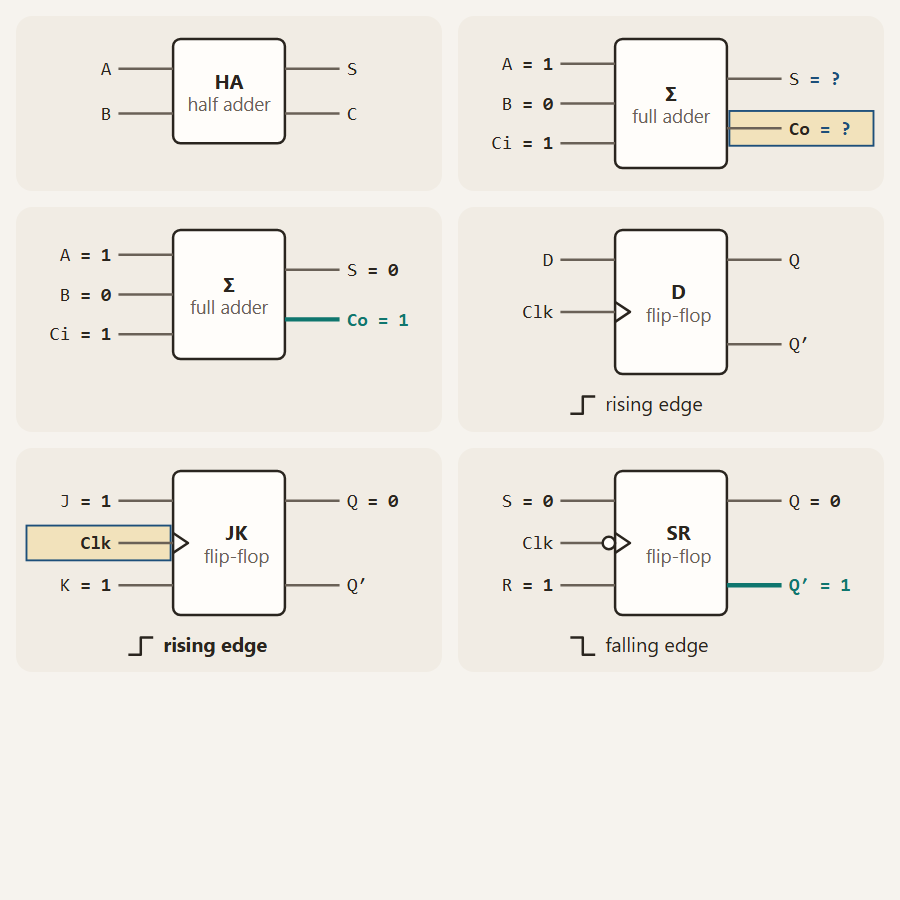
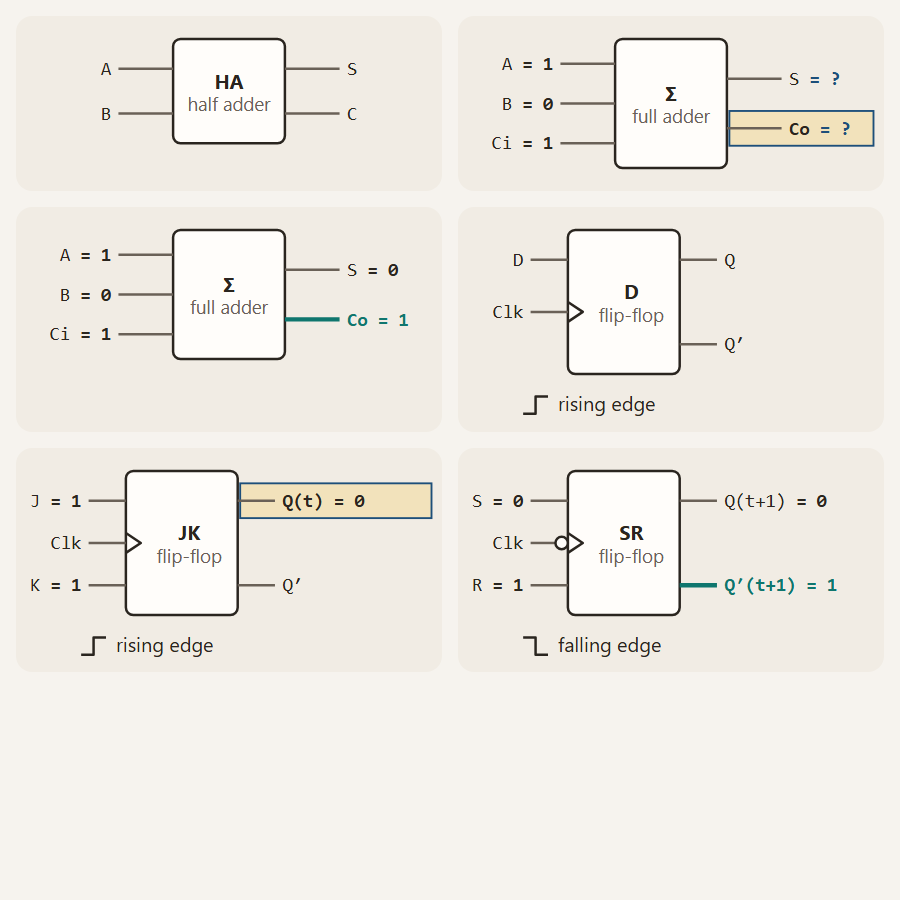
fix(figures): flip-flop figures print Q(t) and Q(t+1) (UX on #462)

diff --git a/src/kinds/shared/figures/BlockFigure.tsx b/src/kinds/shared/figures/BlockFigure.tsx
@@ -5,6 +5,8 @@ import styles from "./figures.module.css";
 /** One pin of a block: its name, where it sits, and what is printed beside it. */
 interface Pin {
   name: string;
+  /** Printed instead of the name when it says more: Q(t), Q(t+1). */
+  label?: string;
   /** Distance from the top of the body, in units. */
   y: number;
   /** Printed after the name: "1", "0" or "?" (asked, not answered yet). Omitted: the name alone. */
@@ -24,20 +26,21 @@ interface BlockProps {
   clock?: { y: number; edge: "rising" | "falling" };
   focus?: string;
   summary: string;
+  /** Where the body starts and how long the pin stubs are; a flip-flop sits further left to leave room for "Q′(t+1) = 0". */
+  bodyX?: number;
+  stub?: number;
 }
 
 // Geometry in SVG units (visual system §4): 330 wide at most, 15-unit text, never drawn below 0.8× (12 px).
 const WIDTH = 330;
-const BODY_X = 120;
 const BODY_W = 90;
-const STUB = 44;
 const TOP = 12;
 const MIN_SCALE = 0.8;
 
 /** A rectangular block symbol: pins on the left and right, the name inside. The adders and flip-flops are this drawing. */
-function Block({ title, subtitle, height, left, right, clock, focus, summary }: BlockProps) {
-  const lx = BODY_X - STUB;
-  const rx = BODY_X + BODY_W + STUB;
+function Block({ title, subtitle, height, left, right, clock, focus, summary, bodyX: BODY_X = 120, stub = 44 }: BlockProps) {
+  const lx = BODY_X - stub;
+  const rx = BODY_X + BODY_W + stub;
   const total = TOP + height + (clock ? 40 : 12);
   const pin = (p: Pin, side: "left" | "right") => {
     const y = TOP + p.y;
@@ -46,10 +49,10 @@ function Block({ title, subtitle, height, left, right, clock, focus, summary }: 
     const focused = focus === p.name;
     return (
       <g key={p.name} className={`${styles.line} ${on ? styles.on : ""} ${focused ? styles.focus : ""}`} data-line={p.name} data-on={on || undefined} data-focus={focused || undefined} {...focusTarget(`line-${p.name}`)}>
-        {focused && <rect x={side === "left" ? 2 : BODY_X + BODY_W + 2} y={y - 14} width={BODY_X - 4} height={28} className={styles.hit} />}
+        {focused && <rect x={side === "left" ? 2 : BODY_X + BODY_W + 2} y={y - 14} width={side === "left" ? BODY_X - 4 : WIDTH - BODY_X - BODY_W - 4} height={28} className={styles.hit} />}
         <path d={side === "left" ? `M ${lx} ${y} H ${BODY_X}` : `M ${BODY_X + BODY_W} ${y} H ${rx}`} />
         <text x={side === "left" ? lx - 6 : rx + 6} y={y + 5} textAnchor={side === "left" ? "end" : "start"} className={`${styles.pin} mono`}>
-          {p.name}
+          {p.label ?? p.name}
           {p.value !== undefined && <tspan className={`${styles.value} ${asked ? styles.asked : ""}`}>{` = ${p.value}`}</tspan>}
         </text>
       </g>
@@ -77,8 +80,8 @@ function Block({ title, subtitle, height, left, right, clock, focus, summary }: 
               Clk
             </text>
             {/* the mini clock edge points the same way as the trigger */}
-            <path d={clock.edge === "rising" ? `M 84 ${total - 8} H 94 V ${total - 22} H 104` : `M 84 ${total - 22} H 94 V ${total - 8} H 104`} className={styles.edge} />
-            <text x={112} y={total - 10} className={styles.sub}>
+            <path d={clock.edge === "rising" ? `M ${BODY_X - 36} ${total - 8} h 10 v -14 h 10` : `M ${BODY_X - 36} ${total - 22} h 10 v 14 h 10`} className={styles.edge} />
+            <text x={BODY_X - 8} y={total - 10} className={styles.sub}>
               {clock.edge} edge
             </text>
           </g>
@@ -125,7 +128,7 @@ export interface FlipFlopFigureProps {
   edge?: "rising" | "falling";
   /** The inputs and the present Q. Omitted: the symbol alone. */
   given?: FlipFlopGiven;
-  /** Result state: Q and Q′ after the clock edge, computed. */
+  /** Result state: Q(t+1) and Q′(t+1), computed. Before it the figure shows the given Q(t). */
   revealed?: boolean;
   focus?: string;
 }
@@ -137,8 +140,8 @@ export function FlipFlopFigure({ ff, edge = "rising", given, revealed = false, f
   const q = given ? (revealed ? next! : given.q) : undefined;
   const two = inputs.length === 2;
   const letter = ff.toUpperCase();
-  const givenText = given ? ` Given: ${inputs.map((n, i) => `${n} = ${given.inputs[i]}`).join(", ")}, Q = ${given.q}.` : "";
-  const answer = revealed && next !== undefined ? ` After the clock edge: Q = ${next}, Q′ = ${next ? 0 : 1}.` : "";
+  const givenText = given ? ` Given: ${inputs.map((n, i) => `${n} = ${given.inputs[i]}`).join(", ")}, Q(t) = ${given.q}.` : "";
+  const answer = revealed && next !== undefined ? ` After the clock edge: Q(t+1) = ${next}, Q′(t+1) = ${next ? 0 : 1}.` : "";
   return (
     <Block
       title={letter}
@@ -146,9 +149,12 @@ export function FlipFlopFigure({ ff, edge = "rising", given, revealed = false, f
       height={116}
       left={inputs.map((n, i) => ({ name: n, y: i === 0 ? 24 : 92, value: given ? String(given.inputs[i]) : undefined }))}
       right={[
-        { name: "Q", y: 24, value: q === undefined ? undefined : String(q), result: revealed },
-        { name: "Q′", y: 92, value: revealed && q !== undefined ? String(q ? 0 : 1) : undefined, result: revealed },
+        // the characteristic tables' notation: Q(t) is the state given, Q(t+1) the state after the edge
+        { name: "Q", label: q === undefined ? undefined : revealed ? "Q(t+1)" : "Q(t)", y: 24, value: q === undefined ? undefined : String(q), result: revealed },
+        { name: "Q′", label: revealed && q !== undefined ? "Q′(t+1)" : undefined, y: 92, value: revealed && q !== undefined ? String(q ? 0 : 1) : undefined, result: revealed },
       ]}
+      bodyX={82}
+      stub={30}
       clock={{ y: two ? 58 : 66, edge }}
       focus={focus}
       summary={`${letter} flip-flop, ${edge}-edge triggered.${givenText}${answer}`}

diff --git a/src/kinds/shared/figures/BlockFigure.test.tsx b/src/kinds/shared/figures/BlockFigure.test.tsx
@@ -59,10 +59,10 @@ describe("AdderFigure", () => {
 describe("FlipFlopFigure", () => {
   it("JK: inputs above and below the clock; the next Q is drawn only in the result state", () => {
     const { rerender } = render(<FlipFlopFigure ff="jk" given={{ q: 0, inputs: [1, 1] }} />);
-    expect(pinTexts()).toEqual(["J = 1", "K = 1", "Q = 0", "Q′", "Clk"]);
-    expect(screen.getByRole("img")).toHaveAccessibleName("JK flip-flop, rising-edge triggered. Given: J = 1, K = 1, Q = 0.");
+    expect(pinTexts()).toEqual(["J = 1", "K = 1", "Q(t) = 0", "Q′", "Clk"]);
+    expect(screen.getByRole("img")).toHaveAccessibleName("JK flip-flop, rising-edge triggered. Given: J = 1, K = 1, Q(t) = 0.");
     rerender(<FlipFlopFigure ff="jk" given={{ q: 0, inputs: [1, 1] }} revealed />);
-    expect(pinTexts()).toEqual(["J = 1", "K = 1", "Q = 1", "Q′ = 0", "Clk"]);
+    expect(pinTexts()).toEqual(["J = 1", "K = 1", "Q(t+1) = 1", "Q′(t+1) = 0", "Clk"]);
     expect(lit()).toEqual(["Q"]);
   });
 
@@ -91,6 +91,6 @@ describe("adder and flip-flop figures in the spec (ADR-0009)", () => {
 
   it("FigureView draws them, lazily", async () => {
     render(<FigureView id="f" figure={FigureSpec.parse({ type: "flip-flop", ff: "t", edge: "falling", given: { q: 1, inputs: [1] } })} revealed />);
-    expect(await screen.findByRole("img")).toHaveAccessibleName("T flip-flop, falling-edge triggered. Given: T = 1, Q = 1. After the clock edge: Q = 0, Q′ = 1.");
+    expect(await screen.findByRole("img")).toHaveAccessibleName("T flip-flop, falling-edge triggered. Given: T = 1, Q(t) = 1. After the clock edge: Q(t+1) = 0, Q′(t+1) = 1.");
   });
 });
